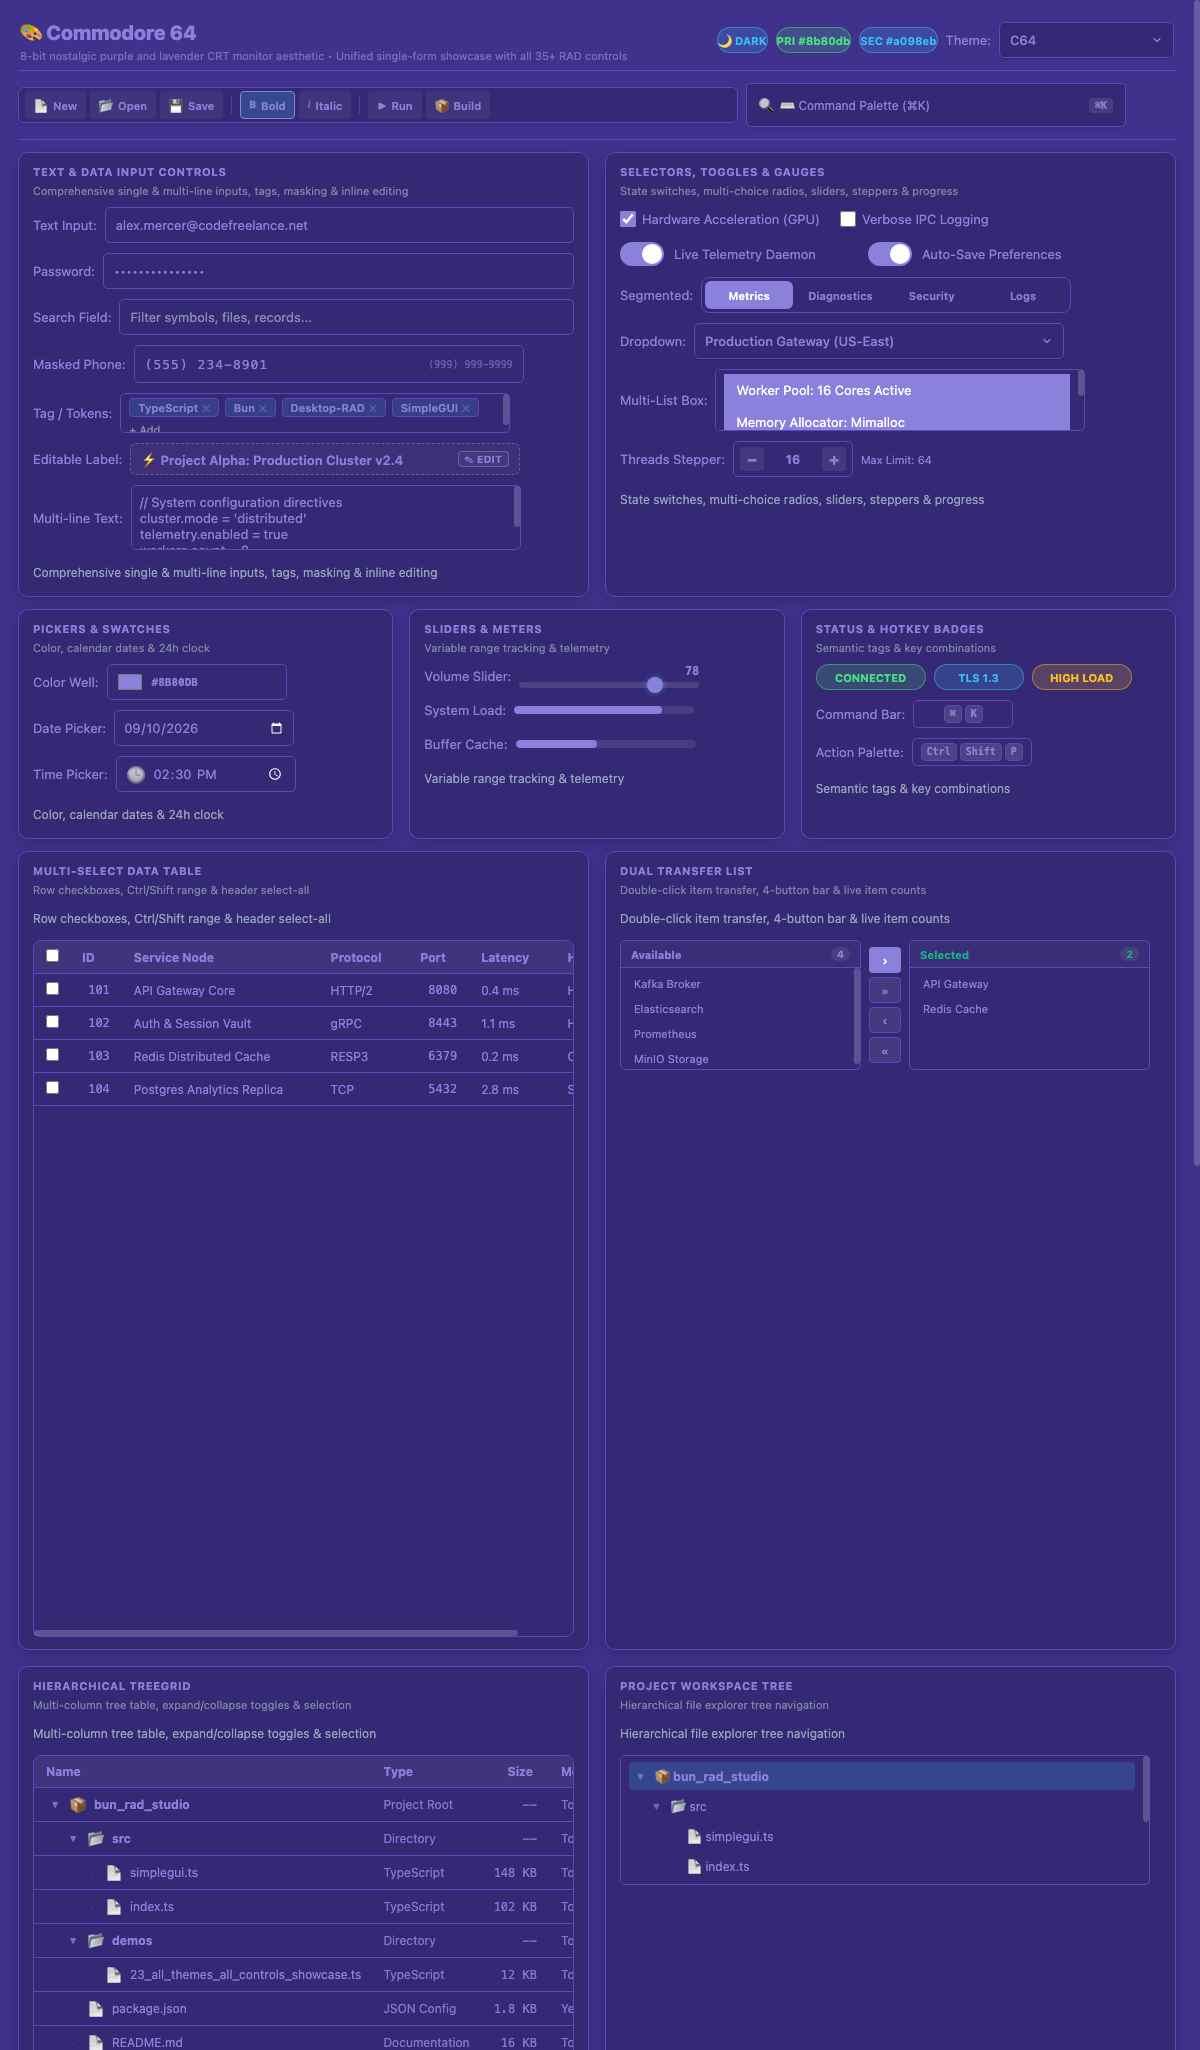
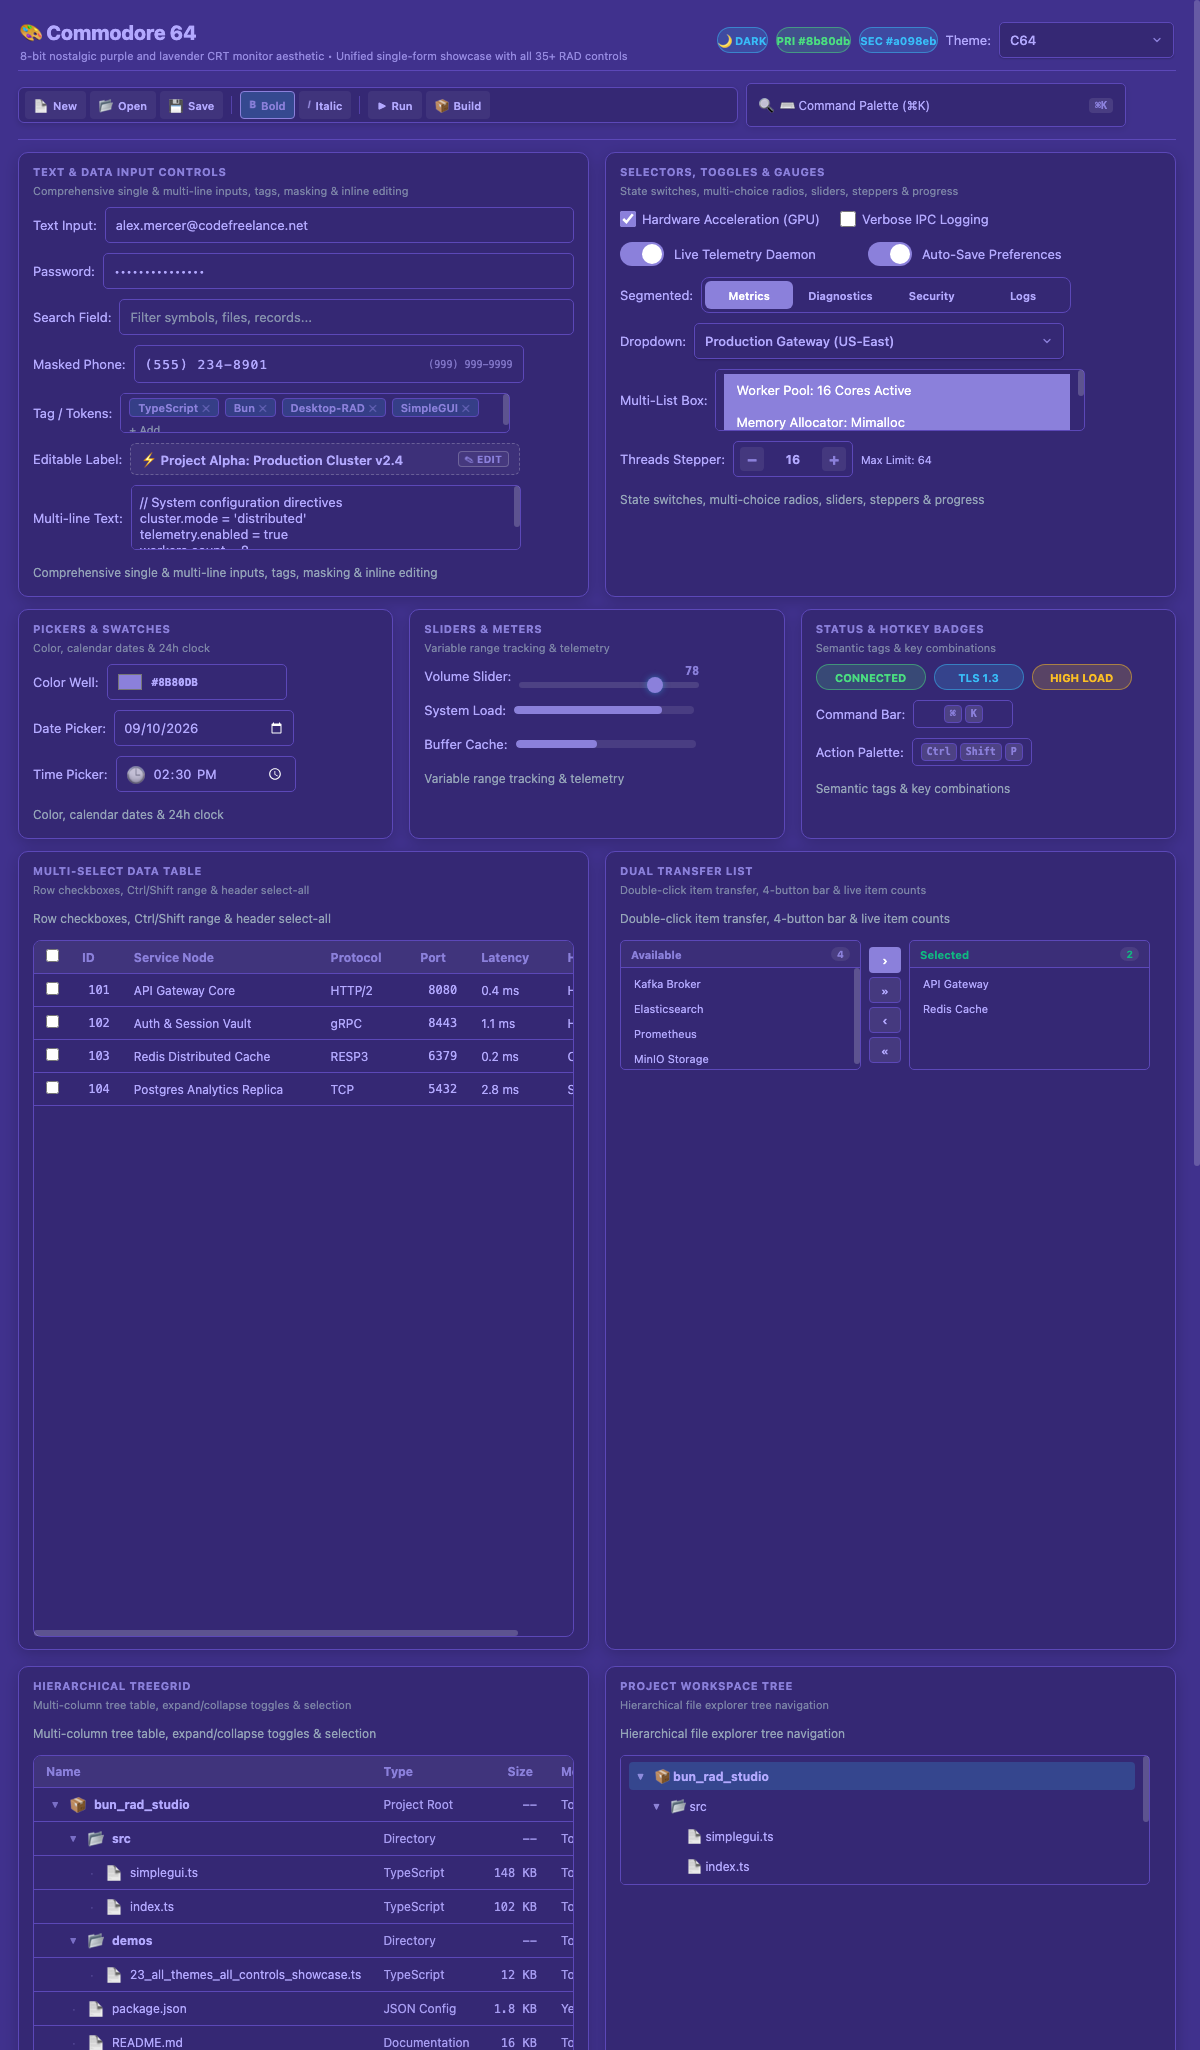
fix(ci): longer allowance for the flaky download retry test; run the Windows PHP tests as their own step with step markers

diff --git a/resources/file_manager/ui/toolbar.js b/resources/file_manager/ui/toolbar.js
@@ -16,6 +16,8 @@ import * as ops from "./ops.js";
 import { activePane, isFolderView } from "./pane.js";
 import { emit, inTrash, on, state } from "./state.js";
 import { hintOf } from "./keymap.js";
+import { selectAll, selectedEntries } from "./selection.js";
+import { copyTerminalPaths } from "./fileurl.js";
 import { themeMenuItems } from "./themeMenu.js";
 import { baseName, collapseCrumbs, parentOf, plural, splitPath } from "./util.js";
 
@@ -43,6 +45,10 @@ function buttonSpecs() {
       { id: "newFile", icon: "📄", label: "New file", get tip() { return `Make a new empty file${hintOf("file.newFile")}`; }, run: ops.newFile, enabled: folderView, hide: inTrash },
       { id: "newSqlite", icon: "🪶", label: "New SQLite", get tip() { return `Make a new SQLite database file${hintOf("file.newSqlite")}`; }, run: ops.newSqlite, enabled: folderView, hide: inTrash },
       { id: "newTemplate", icon: "✨", label: "Template", get tip() { return `Make a new file from a starter template${hintOf("file.newTemplate")}`; }, run: () => emit("new-template-dialog"), enabled: folderView, hide: inTrash },
+    ],
+    [
+      { id: "selectAll", icon: "☑", label: "Select all", get tip() { return `Select every item in this folder${hintOf("file.selectAll")}`; }, run: () => selectAll(), enabled: () => folderView() && activePane().entries?.length !== 0, hide: inTrash },
+      { id: "toTerminal", icon: "⌨", label: "To Terminal", get tip() { return `Copy the selected items' paths, quoted for a terminal${hintOf("file.copyTerminalPaths")}. Use Insert paths in Terminal from the right-click menu to type them into the built-in terminal.`; }, run: () => { const items = selectedEntries(); void copyTerminalPaths(items); }, enabled: () => sel() > 0 },
     ],
     [
       { id: "cut", icon: "✂", label: "Cut", get tip() { return `Cut${hintOf("file.cut")}`; }, run: ops.cutSelection, enabled: () => sel() > 0, hide: inTrash },

diff --git a/tests/file_manager_serve_php.test.ts b/tests/file_manager_serve_php.test.ts
@@ -294,28 +294,42 @@ describe("the real PHP server", () => {
   });
 
   real("stopping ends the process and frees the port; the folder can be served again", async () => {
+    // The step markers are for the Windows CI run, where this test once stopped without any message.
+    const step = (what: string) => console.log(`[php-stop] ${what}`);
     const ctx = newCtx();
     const dir = folder();
     writeFileSync(join(dir, "index.php"), "<?php echo 'again';");
+    step("start");
     const { server } = await op(ctx, "serve/start", { root: dir, kind: "php" });
     const pid = server.pid as number;
+    step(`started pid ${pid}`);
     expect(alive(pid)).toBe(true);
     const started = Date.now();
+    step("stop");
     await op(ctx, "serve/stop", { id: server.id });
+    step("stopped");
     expect(Date.now() - started).toBeLessThan(2500);
     expect(alive(pid)).toBe(false);
+    step("port check");
     expect(await portInUse("127.0.0.1", server.port)).toBe(false);
+    step("fetch refused");
     await expect(fetch(server.url)).rejects.toBeDefined();
+    step("start again");
     const again = (await op(ctx, "serve/start", { root: dir, kind: "php" })).server;
     expect(again.pid).not.toBe(pid);
+    step("get page");
     expect(await text(again.url)).toBe("again");
     // Restart = stop and start with the same choices.
+    step("stop again");
     await op(ctx, "serve/stop", { id: again.id });
+    step("start on the same port");
     const third = (await op(ctx, "serve/start", { root: dir, kind: "php", port: again.port })).server;
     expect(third.port).toBe(again.port);
+    step("stop all");
     expect(await op(ctx, "serve/stopAll")).toEqual({ stopped: 1 });
     expect(alive(third.pid)).toBe(false);
-  });
+    step("done");
+  }, 20000);
 
   real("a PHP that dies by itself is shown as stopped, with the log kept, and can be removed or started again", async () => {
     const ctx = newCtx();

diff --git a/src/shared/simpleguiThemes.ts b/src/shared/simpleguiThemes.ts
@@ -58,7 +58,7 @@ export const SIMPLEGUI_THEMES: Record<string, SimpleGUITheme> = {
         name: "Commodore 64",
         short_name: "C64",
         background_color: "#40318d",
-        font_color: "#8b80db",
+        font_color: "#b3a9ff",
         accent_color: "#8b80db",
         secondary_accent: "#a098eb",
         card_background: "#352874",
@@ -94,7 +94,7 @@ export const SIMPLEGUI_THEMES: Record<string, SimpleGUITheme> = {
         name: "Synthwave '84",
         short_name: "Synthwave",
         background_color: "#262335",
-        font_color: "#f92aad",
+        font_color: "#ff4dbd",
         accent_color: "#f92aad",
         secondary_accent: "#36f9f6",
         card_background: "#1a1824",
@@ -239,7 +239,7 @@ export const SIMPLEGUI_THEMES: Record<string, SimpleGUITheme> = {
         name: "Synthwave '84",
         short_name: "Synthwave",
         background_color: "#262335",
-        font_color: "#f92aad",
+        font_color: "#ff4dbd",
         accent_color: "#f92aad",
         secondary_accent: "#36f9f6",
         card_background: "#1a1824",
@@ -347,7 +347,7 @@ export const SIMPLEGUI_THEMES: Record<string, SimpleGUITheme> = {
         name: "Commodore 64",
         short_name: "C64",
         background_color: "#40318d",
-        font_color: "#8b80db",
+        font_color: "#b3a9ff",
         accent_color: "#8b80db",
         secondary_accent: "#a098eb",
         card_background: "#352874",
@@ -359,7 +359,7 @@ export const SIMPLEGUI_THEMES: Record<string, SimpleGUITheme> = {
         name: "Commodore 64",
         short_name: "C64",
         background_color: "#40318d",
-        font_color: "#8b80db",
+        font_color: "#b3a9ff",
         accent_color: "#8b80db",
         secondary_accent: "#a098eb",
         card_background: "#352874",

diff --git a/resources/file_manager/ui/keys.js b/resources/file_manager/ui/keys.js
@@ -6,7 +6,7 @@ import { confirmBox } from "./dialogs.js";
 import { showFavoritesMenu } from "./favorites.js";
 import { showHelp, showProperties, showSettings } from "./extras.js";
 import { showMoreInfo } from "./fileinfo.js";
-import { copyFileUrls } from "./fileurl.js";
+import { copyFileUrls, copyTerminalPaths } from "./fileurl.js";
 import { focusPowerFilter, openPower, togglePowerExpanded } from "./power.js";
 import { menuIsOpen, toast } from "./menus.js";
 import { openQuickLook, quickLookIsOpen } from "./quicklook.js";
@@ -174,6 +174,23 @@ const FILE_ACTIONS = {
     const items = selectedEntries().filter((x) => !x.isDir);
     if (items.length) void showOpenWith(items);
     else toast("Select a file to choose which program opens it.", { kind: "info" });
+  },
+  "file.copyTerminalPaths": () => {
+    const items = selectedEntries();
+    const here = currentPath();
+    if (items.length) void copyTerminalPaths(items);
+    else if (here) void copyTerminalPaths([{ path: here }]);
+  },
+  "file.insertTerminalPaths": () => {
+    const items = selectedEntries();
+    const here = currentPath();
+    if (items.length) emit("terminal-insert-paths", items.map((x) => x.path));
+    else if (here) emit("terminal-insert-paths", [here]);
+  },
+  "file.openApp": () => {
+    const items = selectedEntries().filter((x) => x.program);
+    if (items.length) items.forEach((x) => void ops.openApplication(x));
+    else toast("Select an application or program to open it.", { kind: "info" });
   },
   "file.copyPath": () => {
     const items = selectedEntries();

diff --git a/resources/file_manager/ui/contextmenu.js b/resources/file_manager/ui/contextmenu.js
@@ -142,6 +142,7 @@ function entryItems(entries) {
   return [
     one ? { label: "Open", icon: e.isDir ? "📂" : "📄", shortcut: "Enter", action: () => ops.openEntry(e) } : null,
     one && e.isDir ? { label: "Open in new tab", icon: "🗂", tip: "Open this folder in a new folder tab at the top of the file list.", action: () => openNewTab(e.path) } : null,
+    one && e.program ? { label: e.isDir ? "Open application" : "Run program", icon: "🚀", shortcut: labelOf("file.openApp"), tip: "Start this application or program (you are asked to confirm first). Press Enter on a Mac .app to browse inside it instead.", action: () => ops.openApplication(e) } : null,
     one ? { label: "Quick Look", icon: "👁", shortcut: "Space", tip: "Look at a picture, play a sound or video, read a text file or see a document here, without opening another program.", action: () => openQuickLook(e) } : null,
     one && searching ? { label: "Open containing folder", icon: "📁", action: () => ops.goToContaining(e) } : null,
     ...studioMenuItems(entries),

diff --git a/tests/file_manager_downloads.test.ts b/tests/file_manager_downloads.test.ts
@@ -393,12 +393,14 @@ describe("downloading", () => {
     const size = 8 * 1024 * 1024;
     flakyLeft = 6;
     const [item] = manager.add([{ url: `${base}/file/${size}.bin?flaky=1`, folder: out, connections: 4 }]);
-    const v = await finished(manager, item!.id);
+    // Each drop is retried after a wait that doubles up to 8 s, and all six drops can land on one connection, so the
+    // allowance is longer than the usual 30 s (a slow CI runner needed more than that once).
+    const v = await until(manager, item!.id, (x) => x.state === "done" || x.state === "error" || x.state === "paused", 80000);
     expect(v.state).toBe("done");
     expect(flakyLeft).toBe(0);
     expect(fileSha(v.path)).toBe(sha(size));
     manager.closeAll();
-  }, 40000);
+  }, 90000);
 
   test("a pause keeps the progress and resume finishes the same file", async () => {
     const { manager, out } = workspace();

diff --git a/resources/file_manager/ui/shortcuts.js b/resources/file_manager/ui/shortcuts.js
@@ -58,6 +58,9 @@ export const ACTIONS = [
   f("file.newSqlite", "Working with files", "New SQLite database", ["Mod+Shift+D"]),
   f("file.newTemplate", "Working with files", "New file from template…", ["Mod+Alt+K"]),
   f("file.selectAll", "Working with files", "Select all", ["Mod+A"]),
+  f("file.copyTerminalPaths", "Working with files", "Copy paths for a terminal (quoted)", ["Mod+Alt+Q"]),
+  f("file.insertTerminalPaths", "Working with files", "Insert paths in the built-in terminal", ["Mod+Alt+X"]),
+  f("file.openApp", "Working with files", "Open or run the application (.app, .exe, AppImage, script)", ["Mod+Alt+A"]),
   f("file.invertSelection", "Working with files", "Invert selection", ["Mod+Shift+I"]),
   f("file.editInCode", "Working with files", "Edit in the Code editor", ["Mod+E"]),
   f("file.properties", "Working with files", "Properties", ["Alt+Enter"]),

diff --git a/resources/file_manager/ui/ops.js b/resources/file_manager/ui/ops.js
@@ -185,6 +185,12 @@ export async function openEntry(entry, { viewer = true } = {}) {
   await openFile(entry.path, false);
 }
 
+/** Runs an application or program (a macOS .app folder, .exe, AppImage, script ...) instead of browsing into it; asks first. */
+export async function openApplication(entry) {
+  if (inTrash()) return toast("Items in the Recycle Bin can't be opened. Restore one first (right-click, then Restore).");
+  await openFile(entry.path, false);
+}
+
 /** Files opened in the built-in editor are listed under Recent too (the ones opened by another program already are). */
 function rememberRecent(path) {
   if (state.settings.recentsEnabled === false) return;
